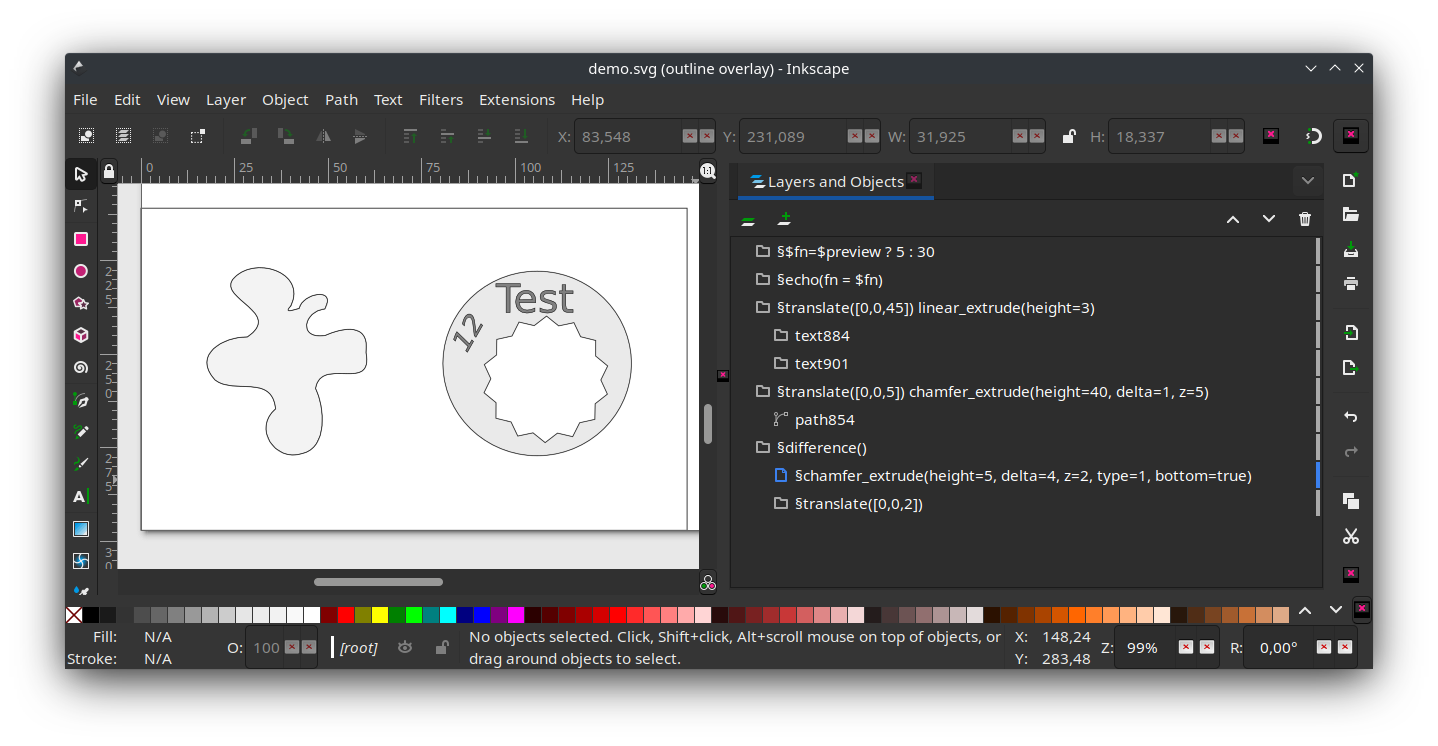
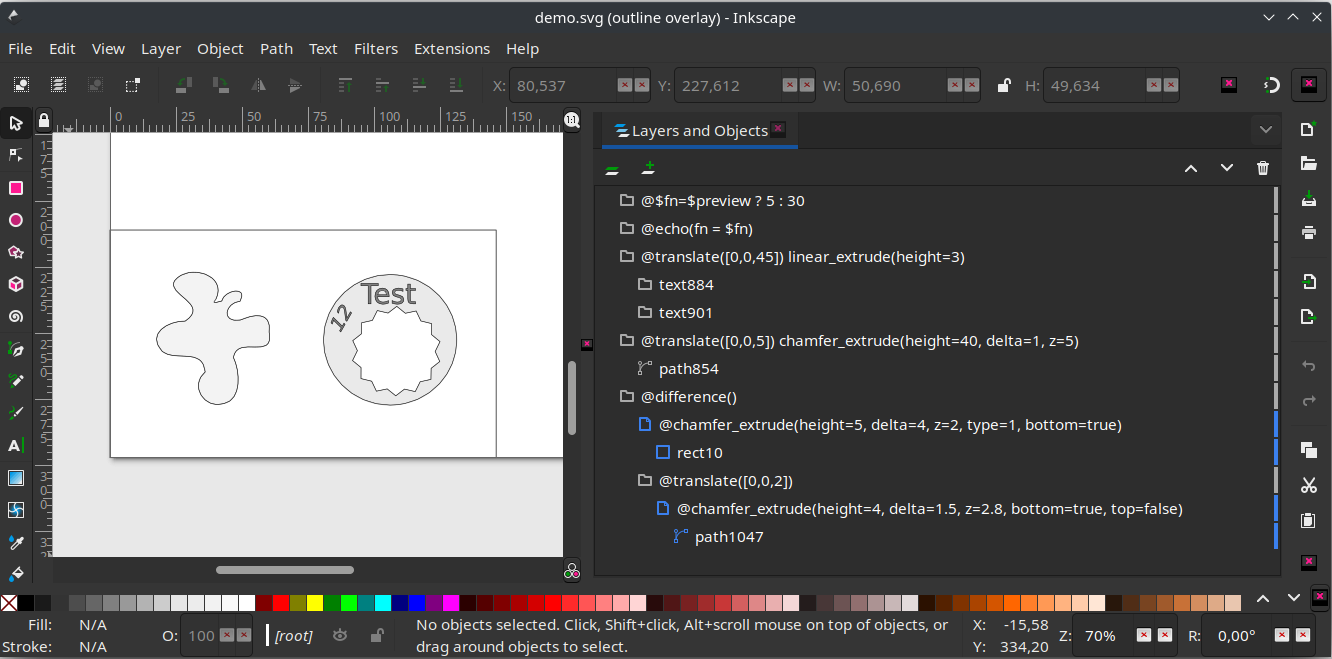
paragraph character replaced with at character

diff --git a/README.md b/README.md
@@ -19,7 +19,7 @@ I like OpenSCAD, but I like Inkscape even more. The 3D OpenSCAD workflow never f
 
 ### Inkscape
 
-The magic happens mostly in the *Layers and Objects* view. _Layers_ and _Groups_ with a title starting with a paragraph character (`§`) will be translated to OpenSCAD commands. If the _Group_ has children these children will be added in curly brackets, otherwise the command will be terminated with a colon (`;`).
+The magic happens mostly in the *Layers and Objects* view. _Layers_ and _Groups_ with a title starting with a _at_ character (`@`) will be translated to OpenSCAD commands. If the _Group_ has children these children will be added in curly brackets, otherwise the command will be terminated with a colon (`;`).
 
 Special functions:
 
@@ -114,7 +114,7 @@ Watch the input file for changes and transform the input automatically:
 
 * Adding empty Groups is not possible in Inkscape. Adding or copying a path and creating a new Group with `ctrl+g` is a quick way to add a group. Just delete the path afterwards.
 * Add the paths first and create the needed tree structure with `ctrl+g` later.
-* You can add custom modules by adding extrusions to a Group named `§module <MODULE_NAME>()`. You even could add variables to this module and use them for the extrusion or other OpenSCAD commands. This is also very handy if you want to import the generated OpenSCAD script in a custom OpenSCAD script.
+* You can add custom modules by adding extrusions to a Group named `@module <MODULE_NAME>()`. You even could add variables to this module and use them for the extrusion or other OpenSCAD commands. This is also very handy if you want to import the generated OpenSCAD script in a custom OpenSCAD script.
 * Execute the `XSLT` script creates a directory with the name `svg_gen`
   in the executing directory. The generated `SCAD` file has to be in the same parent directory as the `svg_gen` directory, otherwise OpenSCAD will not be able to import the `SVG` files.
 
